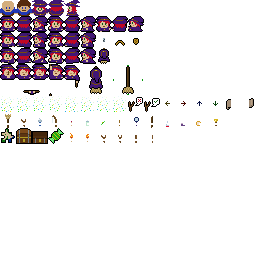
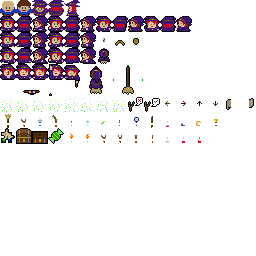
potion

diff --git a/src/game/hero/hero_render.c b/src/game/hero/hero_render.c
@@ -36,6 +36,56 @@ static void hero_render_hookshot(struct sprite *sprite,int x,int y) {
   //TODO
 }
 
+/* Quaffing a potion, complete replacement.
+ */
+ 
+static void hero_render_potion(struct sprite *sprite,int x,int y) {
+  uint8_t bodytileid=0x19;
+  uint8_t bodyxform=0;
+  uint8_t bottletileid=0x7a;
+  uint8_t bottlexform=0;
+  int bottlefirst=0,bottledx=0,bottledy=0;
+  if (SPRITE->facedx<0) {
+    bodytileid+=2;
+    bottlexform=EGG_XFORM_SWAP|EGG_XFORM_YREV;
+    bottledx=-3;
+    bottledy=3;
+  } else if (SPRITE->facedx>0) {
+    bodytileid+=2;
+    bodyxform=EGG_XFORM_XREV;
+    bottlexform=EGG_XFORM_SWAP;
+    bottledx=3;
+    bottledy=3;
+  } else if (SPRITE->facedy<0) {
+    bodytileid+=1;
+    bottlefirst=1;
+    bottlexform=EGG_XFORM_SWAP;
+    bottledx=2;
+    bottledy=2;
+  } else {
+    bottlexform=EGG_XFORM_SWAP|EGG_XFORM_YREV;
+    bottledx=1;
+    bottledy=3;
+  }
+  if (g.store.invstorev[0].itemid==NS_itemid_potion) { // Technically possible to change items mid-glug, but just let it be the wrong tileid briefly then.
+    // Quantity 0 and 3 are both possible -- the quantity changes during the animation.
+    switch (g.store.invstorev[0].quantity) {
+      case 0: bottletileid=0x8a; break;
+      // 1 is the default
+      case 2: bottletileid=0x8b; break;
+      case 3: bottletileid=0x8c; break;
+    }
+  }
+  if (bottlefirst) {
+    graf_tile(&g.graf,x+bottledx,y+bottledy,bottletileid,bottlexform);
+    graf_tile(&g.graf,x,y,bodytileid,bodyxform);
+  } else {
+    graf_tile(&g.graf,x,y,bodytileid,bodyxform);
+    graf_tile(&g.graf,x+bottledx,y+bottledy,bottletileid,bottlexform);
+  }
+  hero_render_errata(sprite,x,y);
+}
+
 /* Render, main entry point.
  */
  
@@ -49,6 +99,7 @@ void hero_render(struct sprite *sprite,int x,int y) {
     case NS_itemid_wand: hero_render_wand(sprite,x,y); return;
     case NS_itemid_fishpole: hero_render_fishpole(sprite,x,y); return;
     case NS_itemid_hookshot: hero_render_hookshot(sprite,x,y); return;
+    case NS_itemid_potion: hero_render_potion(sprite,x,y); return;
   }
   
   uint8_t itemtileid=0;
@@ -81,12 +132,20 @@ void hero_render(struct sprite *sprite,int x,int y) {
     itemdx=-6;
   }
   
-  /* A few items have in-hand animation. Doesn't affect the broader layout.
+  /* A few items make exceptions to tileid or xform.
+   * Doesn't affect the broader layout.
    */
   if (itemtileid==0x71) { //TODO Divining Rod: If a root is detected, animate spinning. 0x86..0x89 pingponging
   } else if (itemtileid==0x74) { //TODO Match: If lit, animate 0x84,0x85
   } else if ((itemtileid==0x73)&&SPRITE->facedx) { // Fishpole: Natural orientation horizontally conflicts with Dot's face. Turn it around.
     itemxform^=EGG_XFORM_XREV;
+  } else if (itemtileid==0x7a) { // Potion: 4 tiles indicating quantity.
+    switch (g.store.invstorev[0].quantity) {
+      case 0: itemtileid=0x8a; break;
+      // The natural tile 0x7a is quantity==1.
+      case 2: itemtileid=0x8b; break;
+      case 3: itemtileid=0x8c; break;
+    }
   }
   
   if (itemtileid) {

diff --git a/src/game/modal/modal_story.c b/src/game/modal/modal_story.c
@@ -104,6 +104,7 @@ static void _story_update(struct modal *modal,double elapsed) {
 }
 
 /* Overlay with HP and gold.
+ * TODO It's a fair bit of work to render and won't change often. Cache this into a temporary texture and redraw that on changes.
  */
  
 static void story_render_overlay(struct modal *modal) {
@@ -113,7 +114,26 @@ static void story_render_overlay(struct modal *modal) {
   int goldmax=store_get_fld16(NS_fld16_goldmax);
   graf_set_image(&g.graf,RID_image_pause);
   
-  int x=6,y=5;
+  graf_tile(&g.graf,9,9,0x17,0);
+  const struct invstore *invstore=g.store.invstorev;
+  int itemid=invstore->itemid;
+  if (itemid) {
+    const struct item_detail *detail=item_detail_for_itemid(itemid);
+    if (detail) {
+      uint8_t tileid=detail->tileid;
+      switch (itemid) {
+        case NS_itemid_potion: switch (invstore->quantity) {
+            case 0: tileid=0x4a; break;
+            // 1 is the default
+            case 2: tileid=0x4b; break;
+            case 3: tileid=0x4c; break;
+          } break;
+      }
+      if (tileid) graf_tile(&g.graf,9,9,tileid,0);
+    }
+  }
+  
+  int x=23,y=5;
   int i=0;
   for (;i<hp;i++,x+=8) graf_tile(&g.graf,x,y,0x28,0);
   for (;i<hpmax;i++,x+=8) graf_tile(&g.graf,x,y,0x27,0);
@@ -123,12 +143,25 @@ static void story_render_overlay(struct modal *modal) {
   else if (gold>=goldmax) color=0x00ff00ff;
   else color=0xf08040ff;
   int digitc=(gold>=10000)?5:(gold>=1000)?4:(gold>=100)?3:(gold>=10)?2:1;
-  x=5;
+  x=22;
   y=14;
   graf_tile(&g.graf,x,y,0x29,0);
   y=13;
   x+=7+4*(digitc-1);
   for (i=digitc;i-->0;x-=4,gold/=10) graf_fancy(&g.graf,x,y,0x40+gold%10,0,0,NS_sys_tilesize,0,color);
+  
+  // Equipped item quantity goes last, so it can share a batch with the gold count.
+  if (itemid&&invstore->limit) {
+    int v=invstore->quantity;
+    uint32_t color;
+    if (v<=0) color=0xb0b0b0ff;
+    else if (v>=invstore->limit) color=0x00ff00ff;
+    else color=0xf08040ff;
+    int digitc=(v>=100)?3:(v>=10)?2:1;
+    x=14;
+    y=21;
+    for (i=digitc;i-->0;x-=4,v/=10) graf_fancy(&g.graf,x,y,0x40+v%10,0,0,NS_sys_tilesize,0,color);
+  }
 }
 
 /* Render.

diff --git a/src/game/hero/hero_item.c b/src/game/hero/hero_item.c
@@ -93,8 +93,30 @@ static int bugspray_begin(struct sprite *sprite) {
  */
  
 static int potion_begin(struct sprite *sprite) {
-  //TODO Inventory, sound effect, state change.
+  if (g.store.invstorev[0].quantity<1) return 0;
+  // Forbid quaffture if HP full, it must be an accident.
+  if (store_get_fld16(NS_fld16_hp)>=store_get_fld16(NS_fld16_hpmax)) return 0;
+  SPRITE->itemid_in_progress=NS_itemid_potion;
+  SPRITE->potionclock=1.000;
+  bm_sound(RID_sound_glug);
   return 1;
+}
+
+static void potion_update(struct sprite *sprite,double elapsed) {
+  double pvclock=SPRITE->potionclock;
+  if ((SPRITE->potionclock-=elapsed)<=0.0) {
+    SPRITE->itemid_in_progress=0;
+  } else if ((SPRITE->potionclock<0.500)&&(pvclock>=0.500)) {
+    bm_sound(RID_sound_glug2);
+    // Don't assume that potion is still armed; the user could have paused while animating.
+    struct invstore *invstore=store_get_itemid(NS_itemid_potion);
+    if (invstore&&(invstore->quantity>0)) {
+      invstore->quantity--;
+      g.store.dirty=1;
+    }
+    // If the item disappeared or zeroed out, heal anyway i guess? We made the sound.
+    store_set_fld16(NS_fld16_hp,store_get_fld16(NS_fld16_hpmax));
+  }
 }
 
 /* Hookshot.
@@ -152,6 +174,7 @@ void hero_item_update(struct sprite *sprite,double elapsed) {
       case NS_itemid_wand: wand_update(sprite,elapsed); break;
       case NS_itemid_fishpole: fishpole_update(sprite,elapsed); break;
       case NS_itemid_hookshot: hookshot_update(sprite,elapsed); break;
+      case NS_itemid_potion: potion_update(sprite,elapsed); break;
       default: fprintf(stderr,"%s:%d:ERROR: Item %d is in progress but has no update handler.\n",__FILE__,__LINE__,SPRITE->itemid_in_progress);
     }
     return;

diff --git a/src/game/modal/vellum_inventory.c b/src/game/modal/vellum_inventory.c
@@ -238,7 +238,16 @@ static void inventory_render_backpack(struct vellum *vellum,int outerx,int outer
       if (!invstore->itemid) continue;
       const struct item_detail *detail=item_detail_for_itemid(invstore->itemid);
       if (!detail) continue;
-      graf_tile(&g.graf,dstx,dsty,detail->tileid,0);
+      uint8_t tileid=detail->tileid;
+      switch (invstore->itemid) {
+        case NS_itemid_potion: switch (invstore->quantity) {
+            case 0: tileid=0x4a; break;
+            // 1 is the default
+            case 2: tileid=0x4b; break;
+            case 3: tileid=0x4c; break;
+          } break;
+      }
+      graf_tile(&g.graf,dstx,dsty,tileid,0);
     }
   }
   
@@ -267,7 +276,16 @@ static void inventory_render_hand(struct vellum *vellum,int x,int y) {
   if (invstore->itemid) {
     const struct item_detail *detail=item_detail_for_itemid(invstore->itemid);
     if (detail) {
-      graf_tile(&g.graf,x+NS_sys_tilesize,y+NS_sys_tilesize,detail->tileid,0);
+      uint8_t tileid=detail->tileid;
+      switch (invstore->itemid) {
+        case NS_itemid_potion: switch (invstore->quantity) {
+            case 0: tileid=0x4a; break;
+            // 1 is the default
+            case 2: tileid=0x4b; break;
+            case 3: tileid=0x4c; break;
+          } break;
+      }
+      graf_tile(&g.graf,x+NS_sys_tilesize,y+NS_sys_tilesize,tileid,0);
       if (invstore->limit) {
         inventory_render_quantity(vellum,x+NS_sys_tilesize,y+NS_sys_tilesize,invstore->quantity,invstore->limit);
       }

diff --git a/src/game/hero/hero_internal.h b/src/game/hero/hero_internal.h
@@ -12,6 +12,7 @@ struct sprite_hero {
   int walking;
   double walkanimclock;
   int walkanimframe;
+  double potionclock; // Animating potion.
   
   // For door transitions.
   int door_listener; // Nonzero if transition in progress. It's a map listenerid from the camera.

diff --git a/src/game/hero/hero_motion.c b/src/game/hero/hero_motion.c
@@ -9,6 +9,7 @@ static int item_prevents_motion(uint8_t itemid) {
     case NS_itemid_wand:
     case NS_itemid_fishpole:
     case NS_itemid_hookshot:
+    case NS_itemid_potion:
       return 1;
   }
   return 0;

diff --git a/README.md b/README.md
@@ -51,7 +51,7 @@ Requires [Egg](https://github.com/aksommerville/egg2) to build.
 - - [ ] wand
 - - [ ] fishpole
 - - [ ] bugspray
-- - [ ] potion
+- - [x] potion
 - - [ ] hookshot
 - - [ ] candy
 - - [ ] vanishing
@@ -71,5 +71,6 @@ Requires [Egg](https://github.com/aksommerville/egg2) to build.
 - [ ] Stats vellum.
 - [ ] System vellum.
 - [ ] When multiple dialogue modals, there are multiple blotters. Can we have just one blotter, and magically put it at the right layer? (eg "Not enough gold" at a shop)
-- [ ] Make the bottle graphically show its fullness. Both the pause-screen tile and the hand tile.
+- [x] Make the bottle graphically show its fullness. Both the pause-screen tile and the hand tile.
 - [ ] There's room for badges under the currency counters in the inventory vellum. Maybe for the flowers? Or keys, something like that.
+- [ ] `modal_story.c:story_render_overlay()`: Cache overlay texture.
